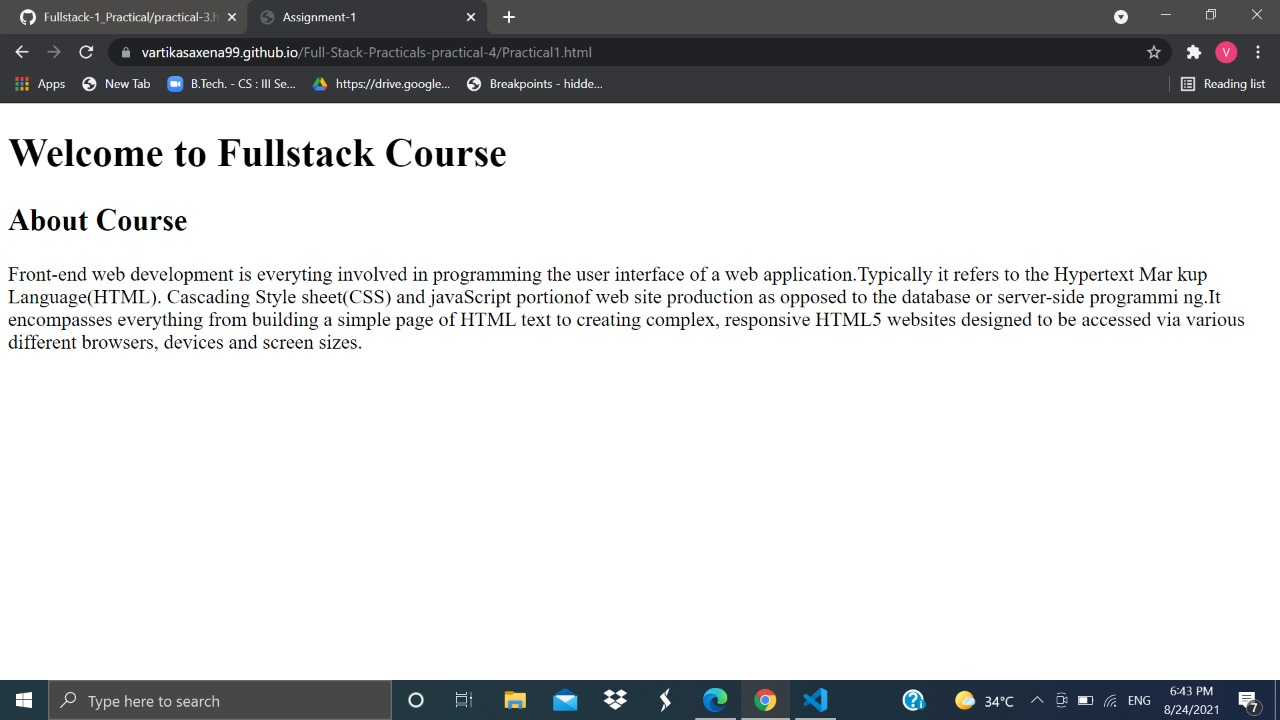
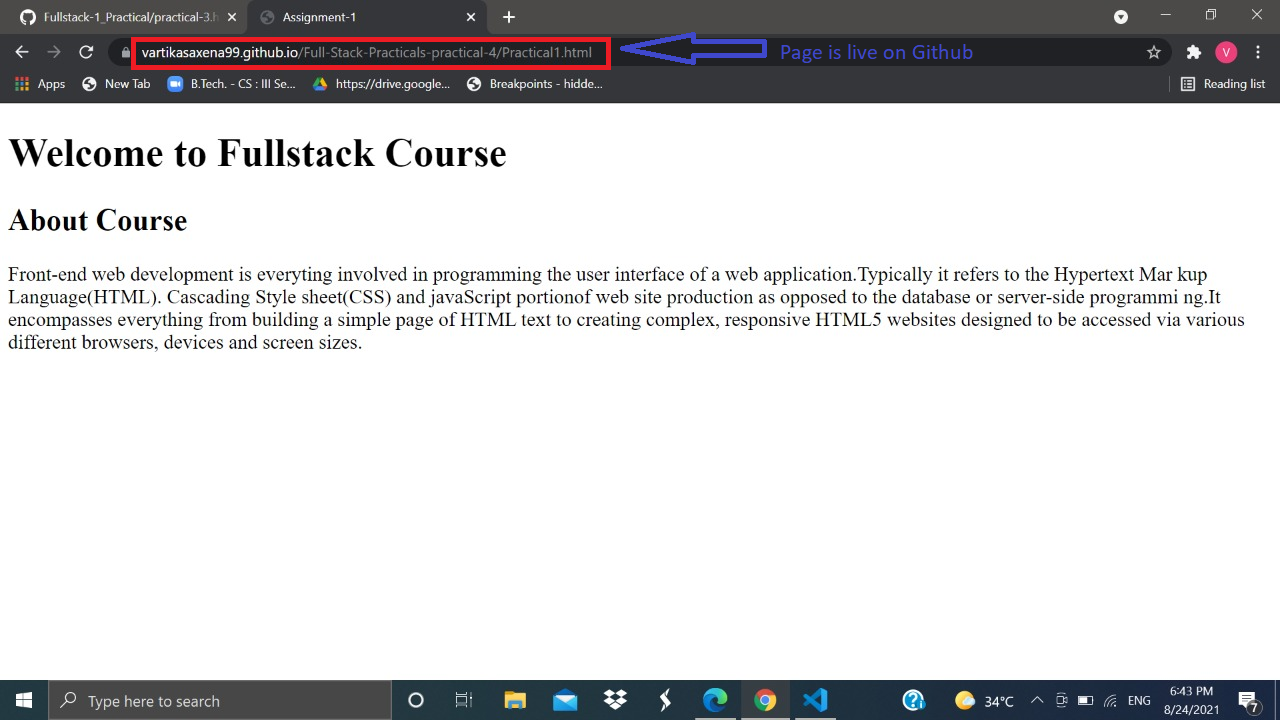
commit

Changed region(s): [[0.0938, 0.0306, 0.4688, 0.1222], [0.4688, 0.0306, 0.75, 0.0917]]

diff --git a/Practical3.html b/Practical3.html
@@ -22,9 +22,9 @@
         various different browsers, devices and screen sizes.
     </p>
     <h1>Output</h1>
-    </body>
-    </br>
     
+    </br>
+    <h3 style="text-align: center;">Live Page on Github</h3>
     <img 
     style="width: 80%; display: block; margin-left: auto; margin-right: auto;"
     src="ss1.png.jpeg" alt="Screenshot Of Live Website"/>
